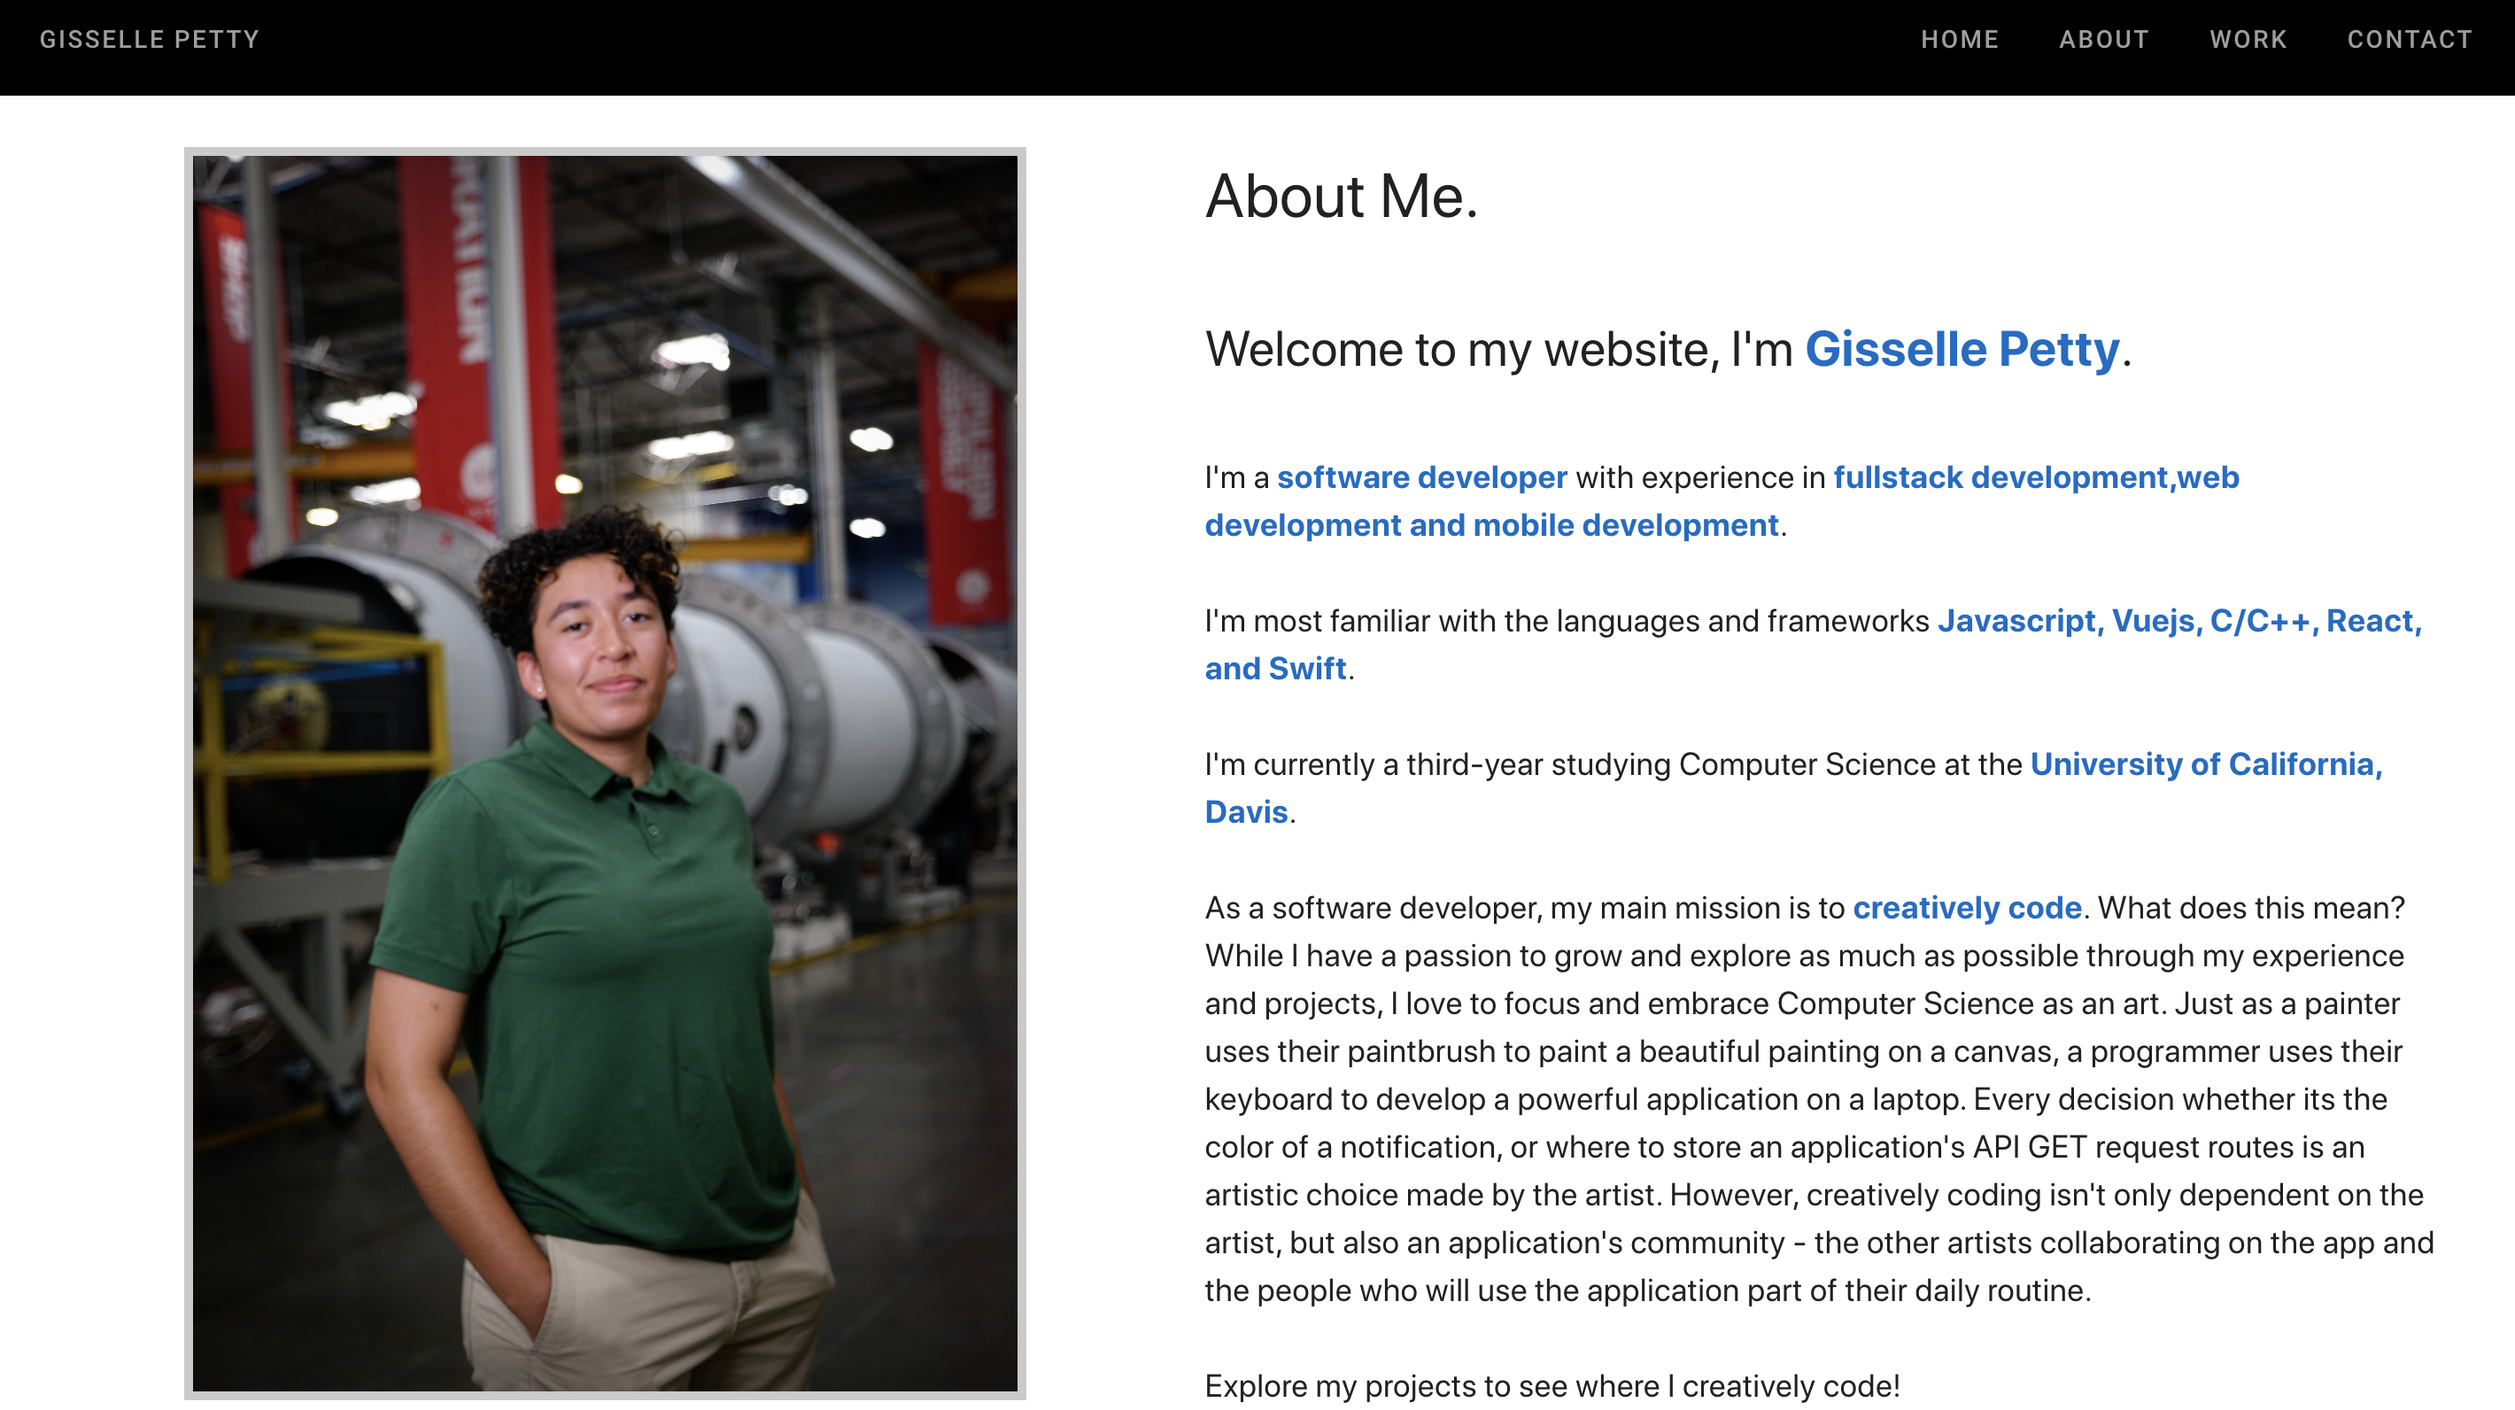
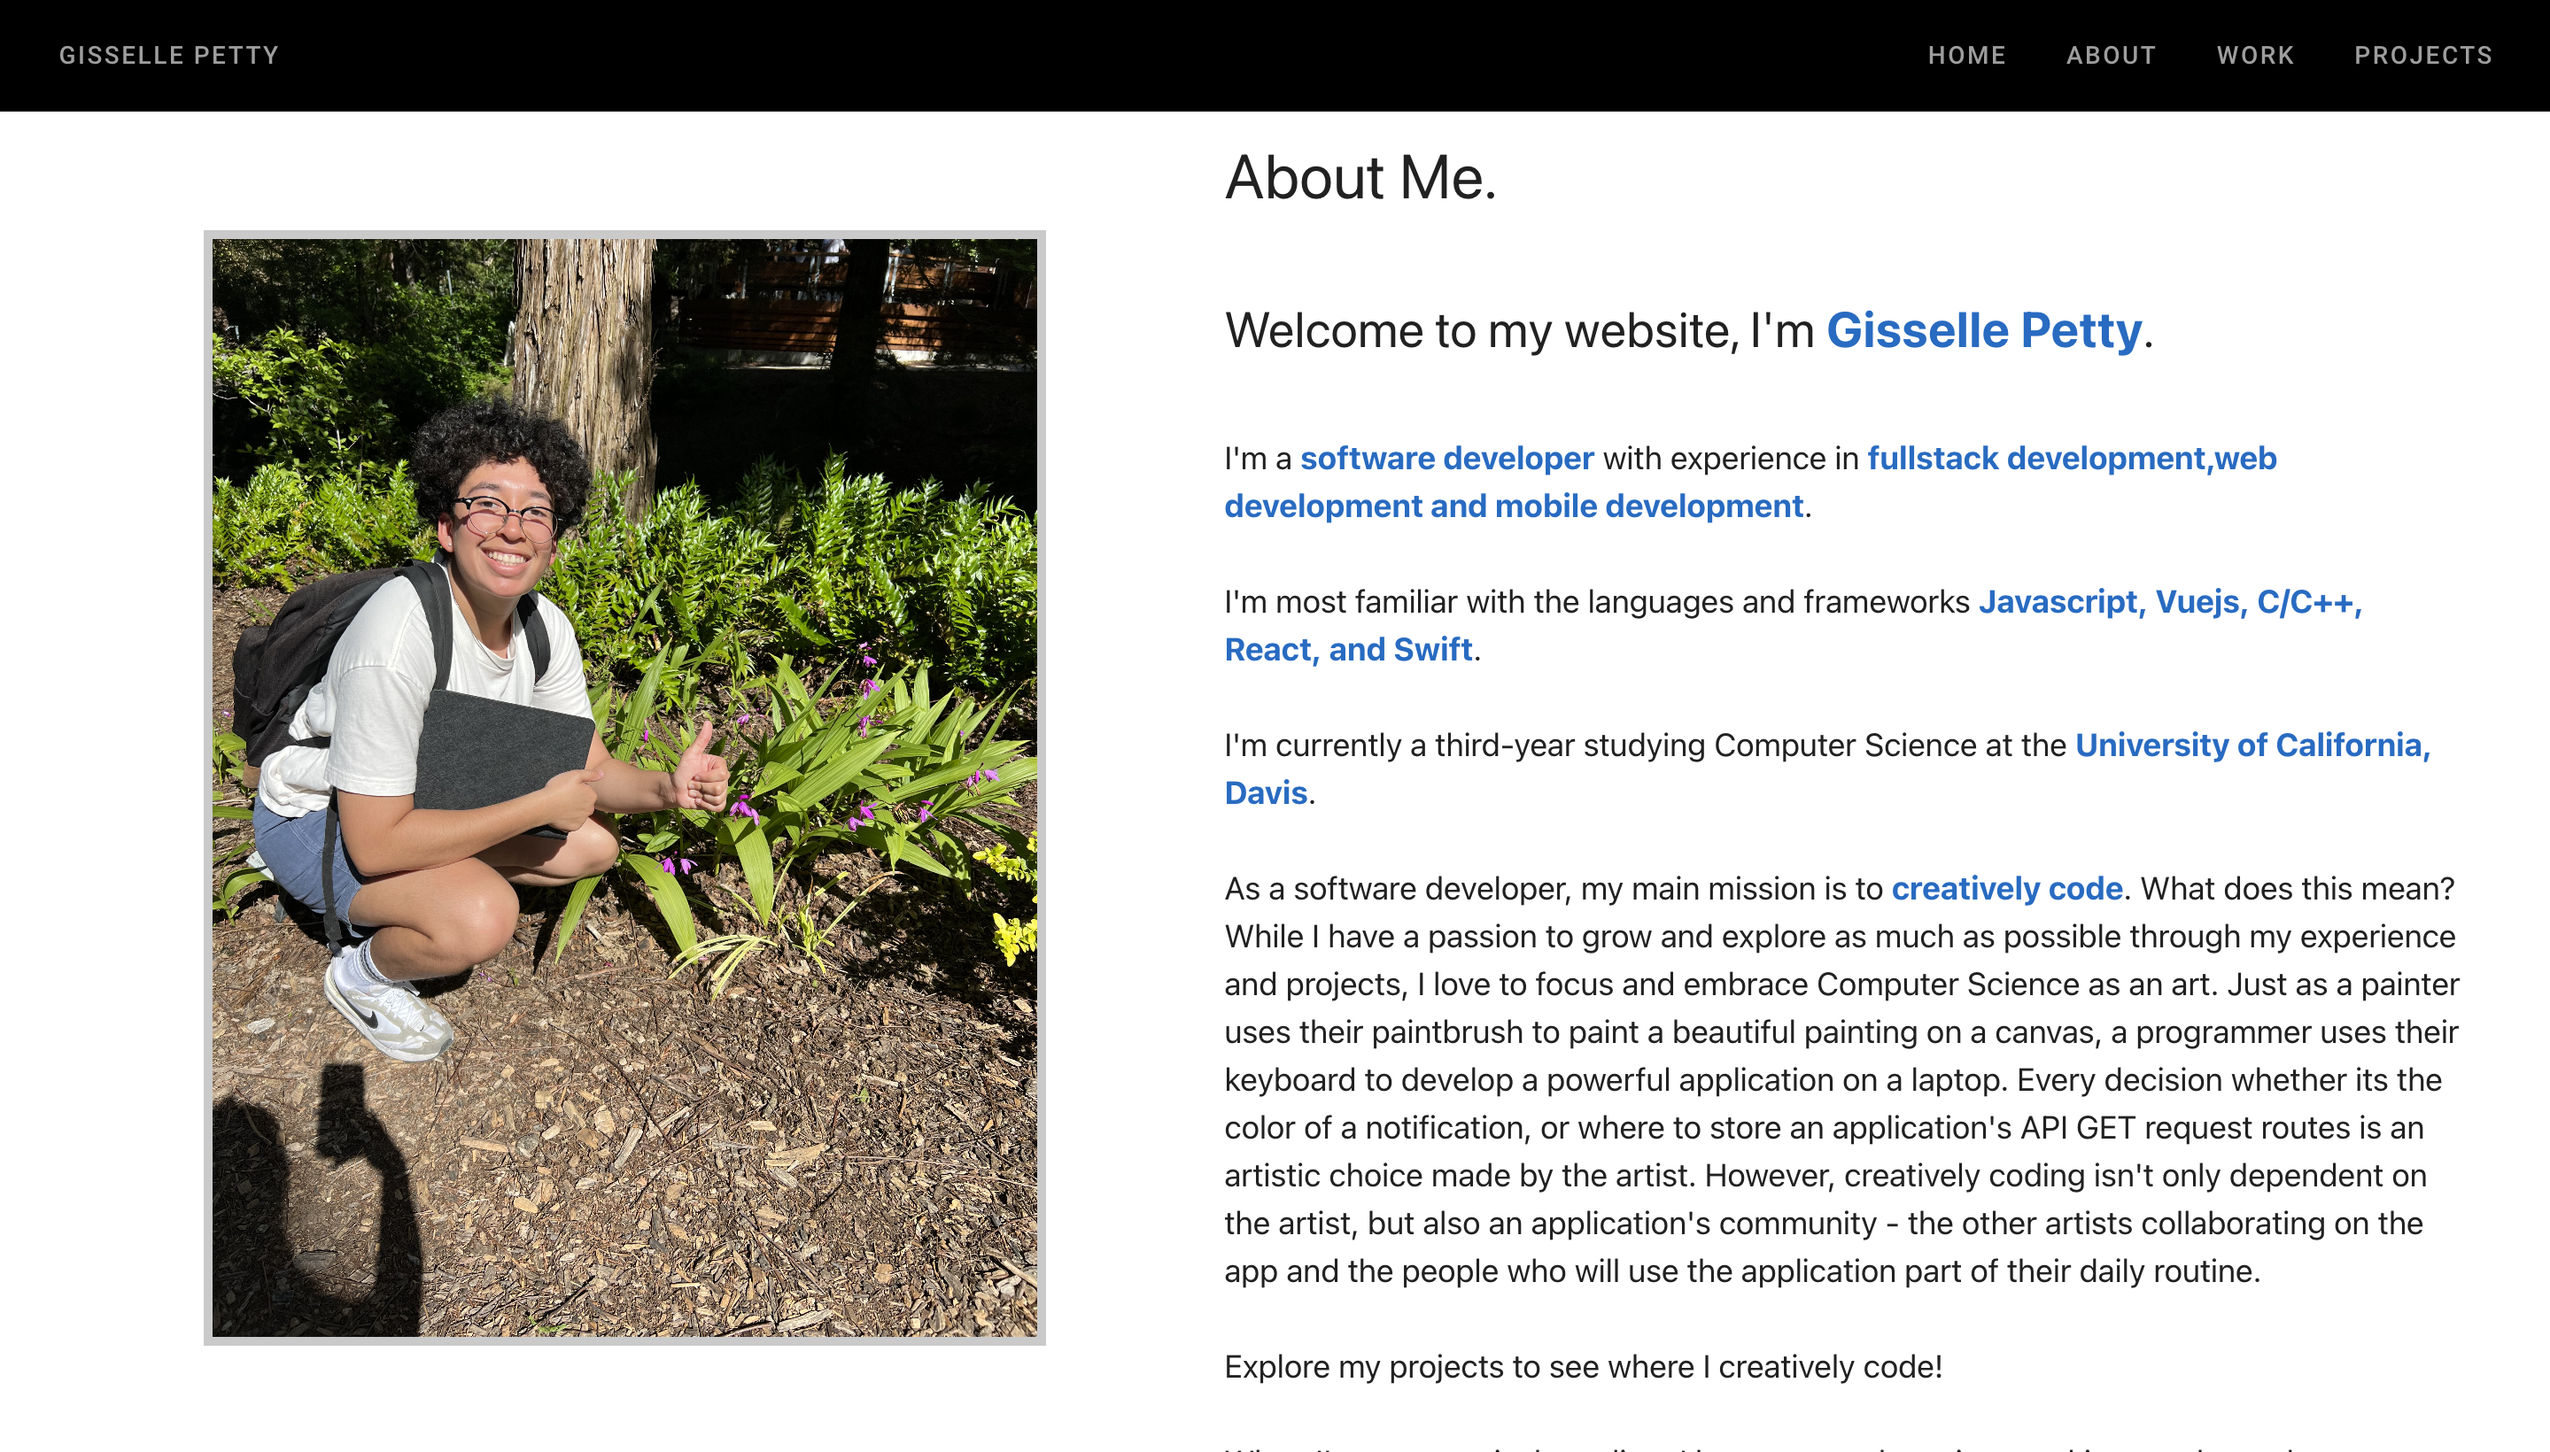
Updated AboutMe Picture, Projects, and front end logic
- Added Back to the Jungle project card
- Changed About Me picture and website ss in project card
- Modified project card and work card dimensions

diff --git a/src/components/WorkComponents/ProjectCard.vue b/src/components/WorkComponents/ProjectCard.vue
@@ -3,41 +3,54 @@
     <v-hover v-slot="{ hover }">
       <v-card class="projectCard" :elevation="hover ? 15 : 4" color="#3680d0">
         <br />
-        <br />
         <p class="projectCardTitle">
           <span class="bolder">{{ project.name }}</span
           >, {{ project.date }}
         </p>
-        <a :href="project.gitHub" class="gitHublink projectCardText"
+
+        <a
+          :href="project.gitHub"
+          target="_blank"
+          class="gitHublink projectCardText"
           >GitHub Repository</a
         >
         <br />
+
         <p class="projectCardText">
           Programming Language:
           <span class="bold">{{ project.language }}</span>
         </p>
+
         <p class="projectCardText">
           <span class="bold">Fun Fact: </span>{{ project.funFact }}
         </p>
+
+        <a
+          :href="project.externalLink"
+          target="_blank"
+          v-if="isExternal"
+          class="gitHublink projectCardText"
+          >PLAY!</a
+        >
+
         <p class="projectCardText">
           <span class="bold">Biggest Challenge: </span
           >{{ project.biggestChallenge }}
         </p>
-
-        <v-img
-          class="projectCardImg"
-          v-if="isImg"
-          :src="getImg"
-          width="480"
-          height="320"
-        ></v-img>
         <iframe
           class="projectCardVideo"
-          v-else
+          v-if="isVideo"
           :src="project.url"
           width="480"
           height="320"
         ></iframe>
+        <v-img
+          class="projectCardImg"
+          v-else
+          :src="getImg"
+          width="480"
+          height="320"
+        ></v-img>
       </v-card>
     </v-hover>
   </div>
@@ -63,19 +76,27 @@ export default {
         biggestChallenge: "fixing this error ;)",
         media: "img",
         url: "/Users/gissellepetty/Desktop/my_website/src/assets/Squidward-Looking-Out-Window-Meme.png",
+        externalLink: "N/A",
       };
     },
   },
   computed: {
-    isImg() {
-      if (this.project.media == "img") {
+    isVideo() {
+      if (this.project.media == "video") {
         return true;
-      } else {
-        return false;
       }
+      return false;
     },
     getImg() {
       return require("@/assets" + this.project.url);
+    },
+    isExternal() {
+      if (this.project.media == "game") {
+        return true;
+      } else if (this.project.media == "mobile") {
+        return true;
+      }
+      return false;
     },
   },
   mounted() {},

diff --git a/src/views/ProjectView.vue b/src/views/ProjectView.vue
@@ -30,7 +30,7 @@ export default {
 .projects {
   position: relative;
   width: 100%;
-  height: 450vh;
+  height: 520vh;
   background-size: cover;
   font-family: -apple-system, BlinkMacSystemFont, "Segoe UI", Roboto, Oxygen,
     Ubuntu, Cantarell, "Open Sans", "Helvetica Neue", sans-serif;
@@ -39,16 +39,16 @@ export default {
 .projectsTitle {
   position: absolute;
   font-size: 50px;
-  top: 5%;
+  top: 4%;
   left: 41.5%;
 }
 .projectBorder {
   display: block;
-  width: 205px;
+  width: 500px;
   height: 3px;
   position: absolute;
-  top: 7.2%;
-  left: 41%;
+  top: 6%;
+  left: 31%;
   border-bottom: 4px solid #006ac7;
 }
 .projectCards {

diff --git a/src/views/AboutView.vue b/src/views/AboutView.vue
@@ -1,6 +1,6 @@
 <template>
   <div class="about">
-    <v-img class="VOPicture" src="../assets/virginOrbitPhoto3.jpg"></v-img>
+    <v-img class="aboutMe-Picture" src="../assets/FlowerPicture.png"></v-img>
     <h3 class="aboutMe-Title">About Me.</h3>
     <h3 class="aboutMe-Name">
       Welcome to my website, I'm
@@ -118,10 +118,11 @@ export default {
   font-weight: normal;
   background-color: white;
 }
-.VOPicture {
+
+.aboutMe-Picture {
   position: absolute;
   width: 33%;
-  top: 15%;
+  top: 20%;
   left: 8%;
   border: 5px solid rgba(0, 0, 0, 0.207);
 }

diff --git a/src/views/WorkView.vue b/src/views/WorkView.vue
@@ -61,12 +61,12 @@ export default {
 }
 .workBorder {
   display: block;
-  width: 350px;
+  width: 550px;
   height: 3px;
-  background: ;
+  background: #006ac7;
   position: absolute;
-  top: 24%;
-  left: 38%;
+  top: 25%;
+  left: 31%;
   border-bottom: 4.5px solid #006ac7;
 }
 </style>
